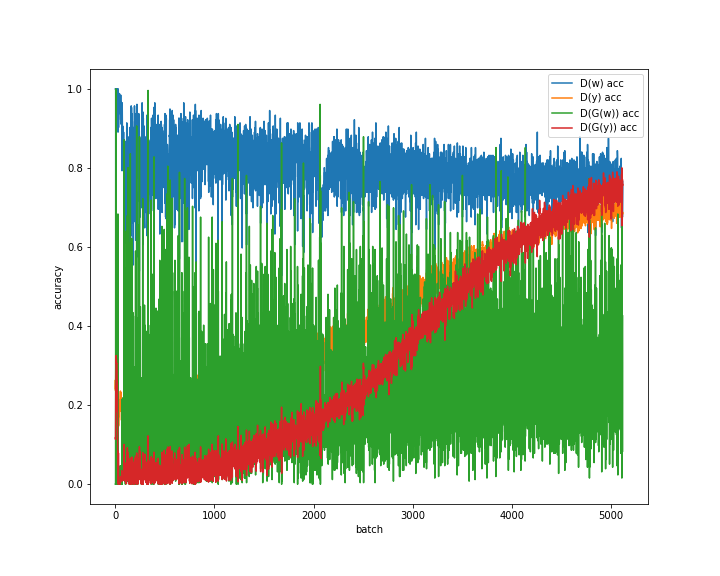
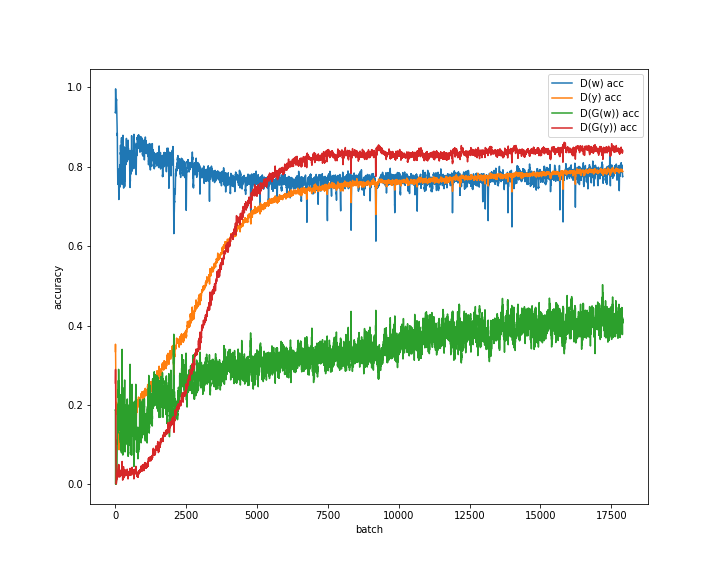
Updated loss and accuracy curves

diff --git a/README.md b/README.md
@@ -1,9 +1,8 @@
-Training# CelebA-AE-AC-GAN
+# CelebA-AE-AC-GAN
 
 ![Faces](img/faces.png)
 
-A auto-encoder + auxiliary GAN model is being explored in this project, to
-produce artificial, realistic human faces. Trainign data is based on the CelebA dataset, with some pre-processing steps.
+An auto-encoder + auxiliary classifier GAN model is explored in this project, to produce artificial, realistic human faces. Training data is based on the CelebA dataset, with some pre-processing steps.
 
 The presented work is based and expended on a similar study for digit and letter generation based on (Extended) MNIST datasets ([link](https://github.com/markusmeingast/MNIST-GAN)). Notable expansions are, switching to 3 color channels, a base resolution of 64x64 images, multi-class-multi-label classification and one-sided label-smoothing.
 
@@ -222,7 +221,7 @@ Below are the current model configurations:
 
 # Results
 
-Shown here are the results from a training run over 66 epochs. The model "convergence" shows an expected and adequate behavior. The GAN model parts is able to learn from each other, continuously improving. Some classes are accurately predicted and produced (e.g. gender), while others are harder (e.g. eye-glasses, 5 o'clock shadow). Initial epochs seem to focus on eyes and face-shape, while no sharp contours are visible yet. Further training initially improves face outline and facial features, followed by face shading and finally backgrounds. Notably the later epochs produce very colorful images. Further training is expected to show some more improvements and robustness, but other adjustments to the model architecture may prove more efficient.
+Shown here are the results from a training run over 70 epochs. The model "convergence" shows an expected and adequate behavior. The GAN parts (discriminator and generator) are able to learn from each other, continuously improving. Some classes are accurately predicted and generated (e.g. gender), while others are harder (e.g. eye-glasses, 5 o'clock shadow). Initial epochs seem to focus on eyes and face-shape, while no sharp contours are visible yet. Further training initially improves face outline and facial features, followed by face shading and finally backgrounds. Notably the later epochs produce very colorful images. Further training is expected to show some more improvements and robustness, but other adjustments to the model architecture may prove more efficient.
 
 ### Loss Curve
 
@@ -237,6 +236,8 @@ Combined with the loss curves, the accuracy/F1 score are a good indicator of mod
 ![accuracy curve](img/acc.png)
 
 ### Auto-Encoder Performance
+
+Epoch 1/5/10/50:
 
 ![ae performance epoch 1](img/ae_001.png)\
 ![ae performance epoch 5](img/ae_005.png)\
